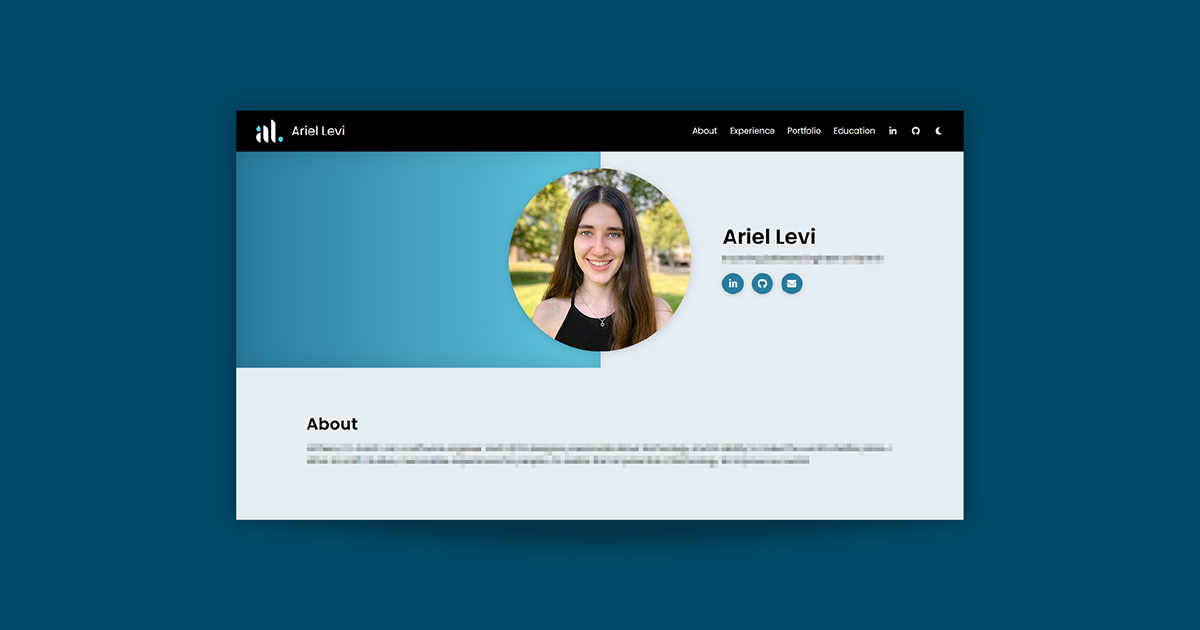
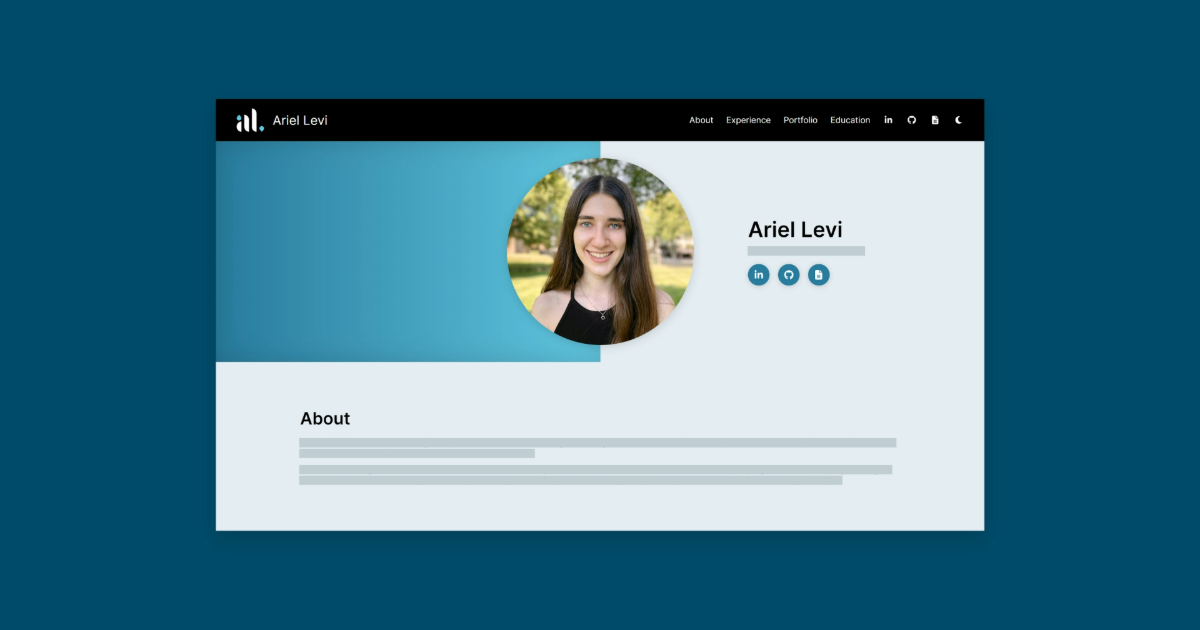
Updated About section and changed font

Changed region(s): [[0.1542, 0.1508, 0.8325, 0.8444], [0.2467, 0.6333, 0.7708, 0.7841]]

diff --git a/web-app/src/Views/About/index.tsx b/web-app/src/Views/About/index.tsx
@@ -4,32 +4,31 @@ import { Section } from "../../Containers";
 /**
  * "About" section
  */
-const About = () => {
-  return (
-    <Section id="about">
-      <h2>About</h2>
+const About = () => (
+  <Section id="about">
+    <h2>About</h2>
 
-      <p>
-        Hi there, I&rsquo;m Ariel! I am a software engineer and UI/UX designer
-        passionate about technology and its ability to make the world a better
-        place. I strive to craft intuitive, memorable experiences for
-        people&mdash;to realize the full potential of technology to improve our
-        world.
-      </p>
+    <p>
+      Hi, I&rsquo;m Ariel! I am a software engineer passionate about building
+      technology to make the world a better place. I craft web applications with
+      a focus on clean code, beautiful design, and intuitive user experiences.
+    </p>
 
-      <p>
-        I recently joined{" "}
-        <Link
-          href="https://www.garmin.com/en-US/company/about-garmin/"
-          openWithNewTab
-        >
-          Garmin
-        </Link>{" "}
-        as a software engineer, where I am excited to keep learning and growing
-        my skills!
-      </p>
-    </Section>
-  );
-};
+    <p>
+      As a software engineer at{" "}
+      <Link href="https://www.garmin.com/company/about-garmin/" openWithNewTab>
+        Garmin
+      </Link>
+      , I work with incredibly talented teammates to build{" "}
+      <Link href="https://connect.garmin.com/" openWithNewTab>
+        Garmin Connect
+      </Link>
+      , helping millions of people gain insights into their health and
+      well-being. My technical proficiency revolves around React.js on the
+      frontend and Node.js/Express.js on the backend, but I am always looking
+      for new ways to learn and expand my skills!
+    </p>
+  </Section>
+);
 
 export default About;

diff --git a/web-app/src/Views/Experience/data.ts b/web-app/src/Views/Experience/data.ts
@@ -18,9 +18,9 @@ import {
 const experienceData: ExperienceItem[] = [
     {
         id: "garmin-2023",
-        title: "Software Engineer",
+        title: "Software Engineer 1",
         organization: "Garmin",
-        href: "https://www.garmin.com/en-US/company/about-garmin/",
+        href: "https://www.garmin.com/company/about-garmin/",
         startDate: "August 2023",
         location: "Olathe, KS",
         responsibilities: [
@@ -28,7 +28,9 @@ const experienceData: ExperienceItem[] = [
         ],
         technologies: [
             "React.js",
+            "Next.js",
             "JavaScript",
+            "TypeScript",
             "HTML/CSS",
             "Node.js",
             "GraphQL",
@@ -68,7 +70,7 @@ const experienceData: ExperienceItem[] = [
         id: "garmin-2022",
         title: "Software Engineer Intern",
         organization: "Garmin",
-        href: "https://www.garmin.com/en-US/company/about-garmin/",
+        href: "https://www.garmin.com/company/about-garmin/",
         startDate: "May 2022",
         endDate: "August 2022",
         location: "Olathe, KS",
@@ -137,7 +139,7 @@ const experienceData: ExperienceItem[] = [
         id: "zoom-2020",
         title: "Technical Support Engineer Intern",
         organization: "Zoom",
-        href: "https://explore.zoom.us/en/about/",
+        href: "https://explore.zoom.us/about/",
         startDate: "May 2020",
         endDate: "August 2020",
         location: "Overland Park, KS",

diff --git a/web-app/src/Global/index.ts b/web-app/src/Global/index.ts
@@ -1,6 +1,5 @@
 import { faGithub, faLinkedinIn } from "@fortawesome/free-brands-svg-icons";
 import { faFileLines } from "@fortawesome/free-solid-svg-icons";
-import resume from "../Assets/ArielLeviResume.pdf";
 import { IconTab, NavbarTab } from "../Types";
 
 /** Personal website title */
@@ -40,7 +39,7 @@ export const socialTabs: IconTab[] = [
     },
     {
         label: "Resume",
-        href: resume,
+        href: "/ArielLeviResume.pdf",
         openWithNewTab: true,
         icon: faFileLines,
         colorPrimary: "gray",

diff --git a/web-app/index.html b/web-app/index.html
@@ -41,7 +41,7 @@
     <!-- Font -->
     <link rel="preconnect" href="https://fonts.gstatic.com" />
     <link
-      href="https://fonts.googleapis.com/css2?family=Poppins:ital,wght@0,400;0,600;1,400;1,600&display=swap"
+      href="https://fonts.googleapis.com/css2?family=Inter:ital,wght@0,400;0,600;1,400;1,600&display=swap"
       rel="stylesheet"
     />
   </head>

diff --git a/web-app/src/Theme/Modules/CssBaseline.tsx b/web-app/src/Theme/Modules/CssBaseline.tsx
@@ -4,7 +4,7 @@ import { transition } from "./Transition";
 /** Baseline styling based on the application's theme */
 const CssBaseline = () => {
   const theme = useTheme();
-  const fonts = ["Poppins", "system-ui", "sans-serif"];
+  const fonts = ["Inter", "system-ui", "sans-serif"];
 
   return (
     <Global
